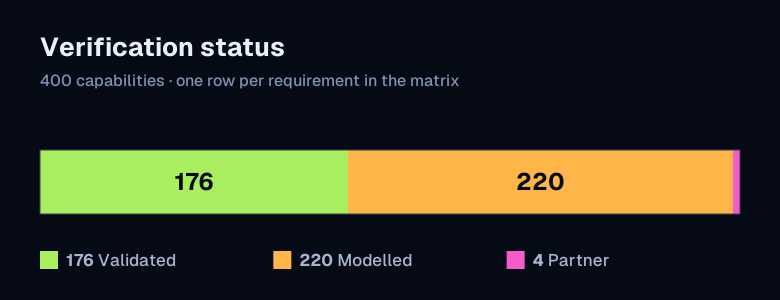
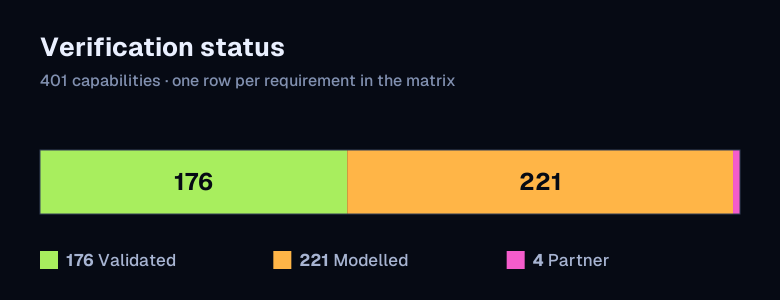
0.40 count surfaces for 401 rows (176/221/4): README family, provenance diagram, validation figures

diff --git a/README.md b/README.md
@@ -20,7 +20,7 @@
 <p align="center">
   <a href="https://github.com/ashfordeOU/kshana/actions/workflows/ci.yml"><img src="https://img.shields.io/github/actions/workflow/status/ashfordeOU/kshana/ci.yml?branch=main&event=push&label=CI&style=flat-square&labelColor=0A1226" height="18" alt="Continuous integration status on main"></a>
   <a href="docs/COVERAGE.md"><img src="https://img.shields.io/badge/coverage-~95%25-377D0C?style=flat-square&labelColor=0A1226" height="18" alt="Line coverage near 95 % of src/, measured in docs/COVERAGE.md and gated at 85 % in continuous integration"></a>
-  <a href="#evidence"><img src="https://img.shields.io/badge/validated-176%2F400-377D0C?style=flat-square&labelColor=0A1226" height="18" alt="176 of 400 capabilities VALIDATED against an independent external oracle, from the verification matrix"></a>
+  <a href="#evidence"><img src="https://img.shields.io/badge/validated-176%2F401-377D0C?style=flat-square&labelColor=0A1226" height="18" alt="176 of 401 capabilities VALIDATED against an independent external oracle, from the verification matrix"></a>
   <a href="https://sonarcloud.io/summary/overall?id=ashfordeOU_kshana"><img src="https://img.shields.io/sonar/quality_gate/ashfordeOU_kshana?server=https%3A%2F%2Fsonarcloud.io&label=quality&style=flat-square&labelColor=0A1226" height="18" alt="SonarQube Cloud quality gate status"></a>
   <a href="https://github.com/ashfordeOU/kshana/releases"><img src="https://img.shields.io/badge/release-v0.39.0-066A86?style=flat-square&labelColor=0A1226" height="18" alt="Release v0.39.0"></a>
   <a href="LICENSE"><img src="https://img.shields.io/badge/licence-AGPL--3.0-3F4B67?style=flat-square&labelColor=0A1226" height="18" alt="Licence: AGPL-3.0-only"></a>
@@ -457,7 +457,7 @@ kshana scenarios/lunar-infrastructure-geodesy-sensitivity.toml
 <picture>
   <source media="(prefers-color-scheme: dark)" srcset="docs/figures/0.38/lunar-carrier-dark.svg">
   <source media="(prefers-color-scheme: light)" srcset="docs/figures/0.38/lunar-carrier-light.svg">
-  <img src="docs/figures/0.38/lunar-carrier-light.svg" alt="Carrier-phase integer ambiguity fixing between lunar surface stations and an orbiter, from the committed result of the scored run of engine v0.39.0 (tests/fixtures/lunar_infra/phase_full_run.json: 3 arc lengths, a Monte Carlo of 400 draws each, written by scenarios/carrier-phase-scored.toml). 1 day: success 1.0 % (standard error 0.5 %), 134 ambiguities, orbiter position sigma 45.6 m float and 18.5 m fixed; 2 day: success 0.5 % (standard error 0.4 %), 259 ambiguities, orbiter position sigma 21.5 m float and 8.7 m fixed; 3 day: success 2.8 % (standard error 0.8 %), 375 ambiguities, orbiter position sigma 6.3 m float and 2.1 m fixed. Integer fixing is not achieved: success stays between 1 % and 3 % at 25 dBi, and at the registered 12 dBi the problem cannot be formed. MODELLED: a restricted three-body model with stated simplifications and illustrative inputs, not a measurement of any lunar quantity. Advisory: analysis output from a research and engineering tool, not type-approved navigation equipment and not a safety-of-life service.">
+  <img src="docs/figures/0.38/lunar-carrier-light.svg" alt="Carrier-phase integer ambiguity fixing between lunar surface stations and an orbiter, from the committed result of the scored run of engine v0.39.0 (tests/fixtures/lunar_infra/phase_full_run.json: 3 arc lengths, a Monte Carlo of 401 draws each, written by scenarios/carrier-phase-scored.toml). 1 day: success 1.0 % (standard error 0.5 %), 134 ambiguities, orbiter position sigma 45.6 m float and 18.5 m fixed; 2 day: success 0.5 % (standard error 0.4 %), 259 ambiguities, orbiter position sigma 21.5 m float and 8.7 m fixed; 3 day: success 2.8 % (standard error 0.8 %), 375 ambiguities, orbiter position sigma 6.3 m float and 2.1 m fixed. Integer fixing is not achieved: success stays between 1 % and 3 % at 25 dBi, and at the registered 12 dBi the problem cannot be formed. MODELLED: a restricted three-body model with stated simplifications and illustrative inputs, not a measurement of any lunar quantity. Advisory: analysis output from a research and engineering tool, not type-approved navigation equipment and not a safety-of-life service.">
 </picture>
 
 <picture>
@@ -961,7 +961,7 @@ start from.
 
 <p><a href="docs/SGP4-VALIDATION.md"><img src="https://img.shields.io/badge/SGP4-666%2F666%20AIAA%20vectors%20%C2%B7%20worst%204.12%20mm-377D0C?style=flat-square&labelColor=0A1226" alt="SGP4 checked against all 666 AIAA 2006-6753 reference vectors, worst position error 4.12 mm"></a></p>
 
-<strong>176 of 400</strong> capabilities validated against independent external oracles; 220 honestly labelled Modelled.
+<strong>176 of 401</strong> capabilities validated against independent external oracles; 221 honestly labelled Modelled.
 Each row of the verification matrix names a capability, the oracle it is checked against,
 the test that runs the check, and the label that follows. Continuous integration (CI) makes
 it impossible to call a capability VALIDATED without an independent external oracle.
@@ -969,13 +969,13 @@ it impossible to call a capability VALIDATED without an independent external ora
 <picture>
   <source media="(prefers-color-scheme: dark)" srcset="docs/assets/readme/flow-verification-dark.svg">
   <source media="(prefers-color-scheme: light)" srcset="docs/assets/readme/flow-verification-light.svg">
-  <img src="docs/assets/readme/flow-verification-light.svg" alt="How a capability earns its label. Each row of the verification matrix names a capability, the oracle it is checked against, the test that runs the check in continuous integration, and the label that follows. A row may be VALIDATED only with an independent external oracle; otherwise it is MODELLED, or PARTNER when a hardware partner owns it. Example: SGP4/SDP4, Cowell 6-DOF + perturbations, batch/sequential OD, oracle AIAA 2006-6753 SGP4 verification vectors, test tests/sgp4_verification.rs, label VALIDATED. Live counts: 176 VALIDATED, 220 MODELLED, 4 PARTNER of 400 rows. In all, 176 capabilities validated against independent external oracles; 220 more are honestly labelled MODELLED and 4 are PARTNER-owned." width="100%">
+  <img src="docs/assets/readme/flow-verification-light.svg" alt="How a capability earns its label. Each row of the verification matrix names a capability, the oracle it is checked against, the test that runs the check in continuous integration, and the label that follows. A row may be VALIDATED only with an independent external oracle; otherwise it is MODELLED, or PARTNER when a hardware partner owns it. Example: SGP4/SDP4, Cowell 6-DOF + perturbations, batch/sequential OD, oracle AIAA 2006-6753 SGP4 verification vectors, test tests/sgp4_verification.rs, label VALIDATED. Live counts: 176 VALIDATED, 221 MODELLED, 4 PARTNER of 401 rows. In all, 176 capabilities validated against independent external oracles; 221 more are honestly labelled MODELLED and 4 are PARTNER-owned." width="100%">
 </picture>
 
 | Label | Rows | Meaning |
 |---|---|---|
 | VALIDATED | 176 | an independent external oracle agrees: real data, an independent implementation or published reference vectors |
-| MODELLED | 220 | checked against analytic truth or simulation self-consistency, and said out loud |
+| MODELLED | 221 | checked against analytic truth or simulation self-consistency, and said out loud |
 | PARTNER | 4 | owned by a hardware partner; Kshana holds no oracle for it |
 
 A few of the checks: all 666 AIAA (American Institute of Aeronautics and Astronautics)
@@ -984,7 +984,7 @@ model to 0.08 m against Orekit 12.2; Galileo to 0.61 m and Swarm-A to 0.10 m aga
 precise ephemerides of the European Space Agency (ESA). Tests hold near 95 % line coverage of
 `src/`, gated at 85 % in CI. The ledger is
 [`docs/VERIFICATION-MATRIX.md`](docs/VERIFICATION-MATRIX.md), generated from
-`src/verification.rs`: the [full 400-row matrix](docs/VERIFICATION-MATRIX.md), and why each
+`src/verification.rs`: the [full 401-row matrix](docs/VERIFICATION-MATRIX.md), and why each
 Modelled row has no external oracle in [`docs/MODELLED-RATIONALE.md`](docs/MODELLED-RATIONALE.md).
 
 <details>
@@ -1017,7 +1017,7 @@ can never claim more than the ledger does. Rows, statuses and ids are read from 
 ### Validation at a glance
 
 Every row is enforced by a named test in CI. This table is a **curated highlight**;
-the full machine-checked matrix is **400 rows — 176 VALIDATED, 220 MODELLED, 4 PARTNER**
+the full machine-checked matrix is **401 rows — 176 VALIDATED, 221 MODELLED, 4 PARTNER**
 (`src/verification.rs`), with the complete evidence (and what is honestly *not* yet
 validated) in [`docs/VALIDATION.md`](docs/VALIDATION.md) and the per-release
 [`kshana-validation-summary.html`](https://github.com/ashfordeOU/kshana/releases)
@@ -1069,7 +1069,7 @@ The **Status** column states the *kind* of evidence, matching the validation lad
 | CI | Test coverage | **~95 % line** on `src/` excluding `src/*_data.rs` and `src/main.rs`, gated ≥ 85 % | cargo-tarpaulin (LLVM engine) |
 
 <p align="center">
-  <img src="docs/assets/diagrams/validation-provenance.png" alt="How a capability earns its label: Requirement maps to a module in src, to a test in tests, to an external oracle (real dataset, independent reference implementation, or published vectors), to a status — with a CI-enforced guard that no capability can be Validated without an external oracle. Live counts: 176 Validated, 220 Modelled, 4 Partner, 400 total" width="900">
+  <img src="docs/assets/diagrams/validation-provenance.png" alt="How a capability earns its label: Requirement maps to a module in src, to a test in tests, to an external oracle (real dataset, independent reference implementation, or published vectors), to a status — with a CI-enforced guard that no capability can be Validated without an external oracle. Live counts: 176 Validated, 221 Modelled, 4 Partner, 401 total" width="900">
   <br><sub>How a capability earns its label — the CI-enforced invariant: no external oracle ⇒ cannot be Validated · <a href="docs/assets/diagrams/validation-provenance.svg">SVG</a></sub>
 </p>
 
@@ -1081,8 +1081,8 @@ The **Status** column states the *kind* of evidence, matching the validation lad
 </p>
 
 <p align="center">
-  <img src="docs/assets/figures/validation-breakdown.png" alt="Verification status across all 400 capabilities: 176 Validated (checked vs external oracle), 220 Modelled, 4 Partner-owned" width="780">
-  <br><sub>176 Validated · 220 Modelled · 4 Partner — <a href="docs/assets/figures/validation-breakdown.svg">SVG</a></sub>
+  <img src="docs/assets/figures/validation-breakdown.png" alt="Verification status across all 401 capabilities: 176 Validated (checked vs external oracle), 221 Modelled, 4 Partner-owned" width="780">
+  <br><sub>176 Validated · 221 Modelled · 4 Partner — <a href="docs/assets/figures/validation-breakdown.svg">SVG</a></sub>
 </p>
 
 </details>
@@ -1189,7 +1189,7 @@ top as a separate overlay that depends on the engine and never forks it.
 <picture>
   <source media="(prefers-color-scheme: dark)" srcset="docs/assets/readme/architecture-dark.svg">
   <source media="(prefers-color-scheme: light)" srcset="docs/assets/readme/architecture-light.svg">
-  <img src="docs/assets/readme/architecture-light.svg" alt="Kshana's architecture: one open engine at the centre, kshana 0.39.0 under the AGPL-3.0, with api::run_toml, a typed dispatch over every kind, and the verification ledger of 400 capabilities (176 VALIDATED, 220 MODELLED, 4 PARTNER). Around it, every surface runs the same engine: Command line (cargo install kshana); Rust library (cargo add kshana); Python (pip install kshana); WebAssembly + Kshana Studio (npm install kshana); MCP server (cargo install kshana-mcp); Docker image (ghcr.io/ashfordeou/kshana-mcp); JetBrains plugin (Marketplace: &quot;Kshana&quot;). Below it, Kshana Pro, a proprietary overlay that depends on the open engine as a library and never forks it, and adds no physical model." width="100%">
+  <img src="docs/assets/readme/architecture-light.svg" alt="Kshana's architecture: one open engine at the centre, kshana 0.39.0 under the AGPL-3.0, with api::run_toml, a typed dispatch over every kind, and the verification ledger of 401 capabilities (176 VALIDATED, 221 MODELLED, 4 PARTNER). Around it, every surface runs the same engine: Command line (cargo install kshana); Rust library (cargo add kshana); Python (pip install kshana); WebAssembly + Kshana Studio (npm install kshana); MCP server (cargo install kshana-mcp); Docker image (ghcr.io/ashfordeou/kshana-mcp); JetBrains plugin (Marketplace: &quot;Kshana&quot;). Below it, Kshana Pro, a proprietary overlay that depends on the open engine as a library and never forks it, and adds no physical model." width="100%">
 </picture>
 
 <details>
@@ -1198,7 +1198,7 @@ top as a separate overlay that depends on the engine and never forks it.
 <picture>
   <source media="(prefers-color-scheme: dark)" srcset="docs/assets/readme/flow-architecture-dark.svg">
   <source media="(prefers-color-scheme: light)" srcset="docs/assets/readme/flow-architecture-light.svg">
-  <img src="docs/assets/readme/flow-architecture-light.svg" alt="Kshana's architecture in layers. Five front doors (command line, Python, JavaScript and WebAssembly, the MCP server and the JetBrains plugin) reach one api::run_toml, a typed dispatch over 92 kinds. Beneath it sit eight domain layers: time and frames, clocks and timing, inertial and fusion, GNSS and integrity, astrodynamics, LEO PNT, Moon, Mars and deep space, and missions and studies, on a shared core, all cross-referenced by the verification module, the machine-checked matrix of 400 capabilities that is the single source of truth for every label." width="100%">
+  <img src="docs/assets/readme/flow-architecture-light.svg" alt="Kshana's architecture in layers. Five front doors (command line, Python, JavaScript and WebAssembly, the MCP server and the JetBrains plugin) reach one api::run_toml, a typed dispatch over 92 kinds. Beneath it sit eight domain layers: time and frames, clocks and timing, inertial and fusion, GNSS and integrity, astrodynamics, LEO PNT, Moon, Mars and deep space, and missions and studies, on a shared core, all cross-referenced by the verification module, the machine-checked matrix of 401 capabilities that is the single source of truth for every label." width="100%">
 </picture>
 
 **One engine, many front doors.** A single Rust core (`kshana`) runs every scenario,

diff --git a/README.crates.md b/README.crates.md
@@ -17,7 +17,7 @@
 
 <p align="center">
   <a href="https://github.com/AshfordeOU/kshana/releases"><img src="https://img.shields.io/badge/release-v0.39.0-066A86?style=flat-square&labelColor=0A1226" alt="Release v0.39.0"></a>
-  <a href="https://github.com/AshfordeOU/kshana/blob/main/docs/VERIFICATION-MATRIX.md"><img src="https://img.shields.io/badge/validated-176%20external%20oracles-377D0C?style=flat-square&labelColor=0A1226" alt="176 of 400 capabilities validated against independent external oracles"></a>
+  <a href="https://github.com/AshfordeOU/kshana/blob/main/docs/VERIFICATION-MATRIX.md"><img src="https://img.shields.io/badge/validated-176%20external%20oracles-377D0C?style=flat-square&labelColor=0A1226" alt="176 of 401 capabilities validated against independent external oracles"></a>
   <a href="https://github.com/AshfordeOU/kshana/blob/main/docs/COVERAGE.md"><img src="https://img.shields.io/badge/coverage-~95%25-377D0C?style=flat-square&labelColor=0A1226" alt="About 95% line coverage, gated at 85% in continuous integration"></a>
   <a href="https://github.com/AshfordeOU/kshana/blob/main/LICENSE"><img src="https://img.shields.io/badge/licence-AGPL--3.0--only-3F4B67?style=flat-square&labelColor=0A1226" alt="Licence: AGPL-3.0-only, or a commercial licence"></a>
   <a href="https://doi.org/10.5281/zenodo.20528627"><img src="https://img.shields.io/badge/DOI-10.5281%2Fzenodo.20528627-7E4B00?style=flat-square&labelColor=0A1226" alt="DOI 10.5281/zenodo.20528627"></a>
@@ -40,7 +40,7 @@ engine in your browser, compiled to WebAssembly, and uploads nothing.
 
 ## Evidence
 
-**176 of 400** capabilities validated against independent external oracles; 220 honestly labelled Modelled, 4 partner-owned.
+**176 of 401** capabilities validated against independent external oracles; 221 honestly labelled Modelled, 4 partner-owned.
 Each capability carries one label in a machine-checked ledger: VALIDATED (an independent
 external oracle agrees: real data, an independent implementation or published reference
 vectors), MODELLED (internally consistent, and said out loud) or PARTNER (a hardware partner
@@ -51,7 +51,7 @@ Cowell force model to 0.08 m against Orekit 12.2.
 <p align="center">
 <picture>
   <source media="(prefers-color-scheme: dark)" srcset="https://raw.githubusercontent.com/AshfordeOU/kshana/main/docs/assets/readme/flow-verification-dark.svg">
-  <img src="https://raw.githubusercontent.com/AshfordeOU/kshana/main/docs/assets/readme/flow-verification-light.svg" alt="How a capability earns its label: capability, oracle, test, ledger label. The verification status across all 400 capabilities: 176 Validated, 220 Modelled, 4 Partner-owned" width="100%">
+  <img src="https://raw.githubusercontent.com/AshfordeOU/kshana/main/docs/assets/readme/flow-verification-light.svg" alt="How a capability earns its label: capability, oracle, test, ledger label. The verification status across all 401 capabilities: 176 Validated, 221 Modelled, 4 Partner-owned" width="100%">
 </picture>
 </p>
 

diff --git a/README.npm.md b/README.npm.md
@@ -18,7 +18,7 @@
 
 <p align="center">
   <a href="https://github.com/AshfordeOU/kshana/releases"><img src="https://img.shields.io/badge/release-v0.39.0-066A86?style=flat-square&labelColor=0A1226" alt="Release v0.39.0"></a>
-  <a href="https://github.com/AshfordeOU/kshana/blob/main/docs/VERIFICATION-MATRIX.md"><img src="https://img.shields.io/badge/validated-176%20external%20oracles-377D0C?style=flat-square&labelColor=0A1226" alt="176 of 400 capabilities validated against independent external oracles"></a>
+  <a href="https://github.com/AshfordeOU/kshana/blob/main/docs/VERIFICATION-MATRIX.md"><img src="https://img.shields.io/badge/validated-176%20external%20oracles-377D0C?style=flat-square&labelColor=0A1226" alt="176 of 401 capabilities validated against independent external oracles"></a>
   <a href="https://github.com/AshfordeOU/kshana/blob/main/docs/COVERAGE.md"><img src="https://img.shields.io/badge/coverage-~95%25-377D0C?style=flat-square&labelColor=0A1226" alt="About 95% line coverage, gated at 85% in continuous integration"></a>
   <a href="https://github.com/AshfordeOU/kshana/blob/main/LICENSE"><img src="https://img.shields.io/badge/licence-AGPL--3.0--only-3F4B67?style=flat-square&labelColor=0A1226" alt="Licence: AGPL-3.0-only, or a commercial licence"></a>
   <a href="https://doi.org/10.5281/zenodo.20528627"><img src="https://img.shields.io/badge/DOI-10.5281%2Fzenodo.20528627-7E4B00?style=flat-square&labelColor=0A1226" alt="DOI 10.5281/zenodo.20528627"></a>
@@ -41,7 +41,7 @@ engine in your browser, compiled to WebAssembly, and uploads nothing.
 
 ## Evidence
 
-**176 of 400** capabilities validated against independent external oracles; 220 honestly labelled Modelled, 4 partner-owned.
+**176 of 401** capabilities validated against independent external oracles; 221 honestly labelled Modelled, 4 partner-owned.
 Each capability carries one label in a machine-checked ledger: VALIDATED (an independent
 external oracle agrees: real data, an independent implementation or published reference
 vectors), MODELLED (internally consistent, and said out loud) or PARTNER (a hardware partner
@@ -52,7 +52,7 @@ Cowell force model to 0.08 m against Orekit 12.2.
 <p align="center">
 <picture>
   <source media="(prefers-color-scheme: dark)" srcset="https://raw.githubusercontent.com/AshfordeOU/kshana/main/docs/assets/readme/flow-verification-dark.svg">
-  <img src="https://raw.githubusercontent.com/AshfordeOU/kshana/main/docs/assets/readme/flow-verification-light.svg" alt="How a capability earns its label: capability, oracle, test, ledger label. The verification status across all 400 capabilities: 176 Validated, 220 Modelled, 4 Partner-owned" width="100%">
+  <img src="https://raw.githubusercontent.com/AshfordeOU/kshana/main/docs/assets/readme/flow-verification-light.svg" alt="How a capability earns its label: capability, oracle, test, ledger label. The verification status across all 401 capabilities: 176 Validated, 221 Modelled, 4 Partner-owned" width="100%">
 </picture>
 </p>
 

diff --git a/README.pypi.md b/README.pypi.md
@@ -17,7 +17,7 @@
 
 <p align="center">
   <a href="https://github.com/AshfordeOU/kshana/releases"><img src="https://img.shields.io/badge/release-v0.39.0-066A86?style=flat-square&labelColor=0A1226" alt="Release v0.39.0"></a>
-  <a href="https://github.com/AshfordeOU/kshana/blob/main/docs/VERIFICATION-MATRIX.md"><img src="https://img.shields.io/badge/validated-176%20external%20oracles-377D0C?style=flat-square&labelColor=0A1226" alt="176 of 400 capabilities validated against independent external oracles"></a>
+  <a href="https://github.com/AshfordeOU/kshana/blob/main/docs/VERIFICATION-MATRIX.md"><img src="https://img.shields.io/badge/validated-176%20external%20oracles-377D0C?style=flat-square&labelColor=0A1226" alt="176 of 401 capabilities validated against independent external oracles"></a>
   <a href="https://github.com/AshfordeOU/kshana/blob/main/docs/COVERAGE.md"><img src="https://img.shields.io/badge/coverage-~95%25-377D0C?style=flat-square&labelColor=0A1226" alt="About 95% line coverage, gated at 85% in continuous integration"></a>
   <a href="https://github.com/AshfordeOU/kshana/blob/main/LICENSE"><img src="https://img.shields.io/badge/licence-AGPL--3.0--only-3F4B67?style=flat-square&labelColor=0A1226" alt="Licence: AGPL-3.0-only, or a commercial licence"></a>
   <a href="https://doi.org/10.5281/zenodo.20528627"><img src="https://img.shields.io/badge/DOI-10.5281%2Fzenodo.20528627-7E4B00?style=flat-square&labelColor=0A1226" alt="DOI 10.5281/zenodo.20528627"></a>
@@ -40,7 +40,7 @@ engine in your browser, compiled to WebAssembly, and uploads nothing.
 
 ## Evidence
 
-**176 of 400** capabilities validated against independent external oracles; 220 honestly labelled Modelled, 4 partner-owned.
+**176 of 401** capabilities validated against independent external oracles; 221 honestly labelled Modelled, 4 partner-owned.
 Each capability carries one label in a machine-checked ledger: VALIDATED (an independent
 external oracle agrees: real data, an independent implementation or published reference
 vectors), MODELLED (internally consistent, and said out loud) or PARTNER (a hardware partner
@@ -51,7 +51,7 @@ Cowell force model to 0.08 m against Orekit 12.2.
 <p align="center">
 <picture>
   <source media="(prefers-color-scheme: dark)" srcset="https://raw.githubusercontent.com/AshfordeOU/kshana/main/docs/assets/readme/flow-verification-dark.svg">
-  <img src="https://raw.githubusercontent.com/AshfordeOU/kshana/main/docs/assets/readme/flow-verification-light.svg" alt="How a capability earns its label: capability, oracle, test, ledger label. The verification status across all 400 capabilities: 176 Validated, 220 Modelled, 4 Partner-owned" width="100%">
+  <img src="https://raw.githubusercontent.com/AshfordeOU/kshana/main/docs/assets/readme/flow-verification-light.svg" alt="How a capability earns its label: capability, oracle, test, ledger label. The verification status across all 401 capabilities: 176 Validated, 221 Modelled, 4 Partner-owned" width="100%">
 </picture>
 </p>
 
